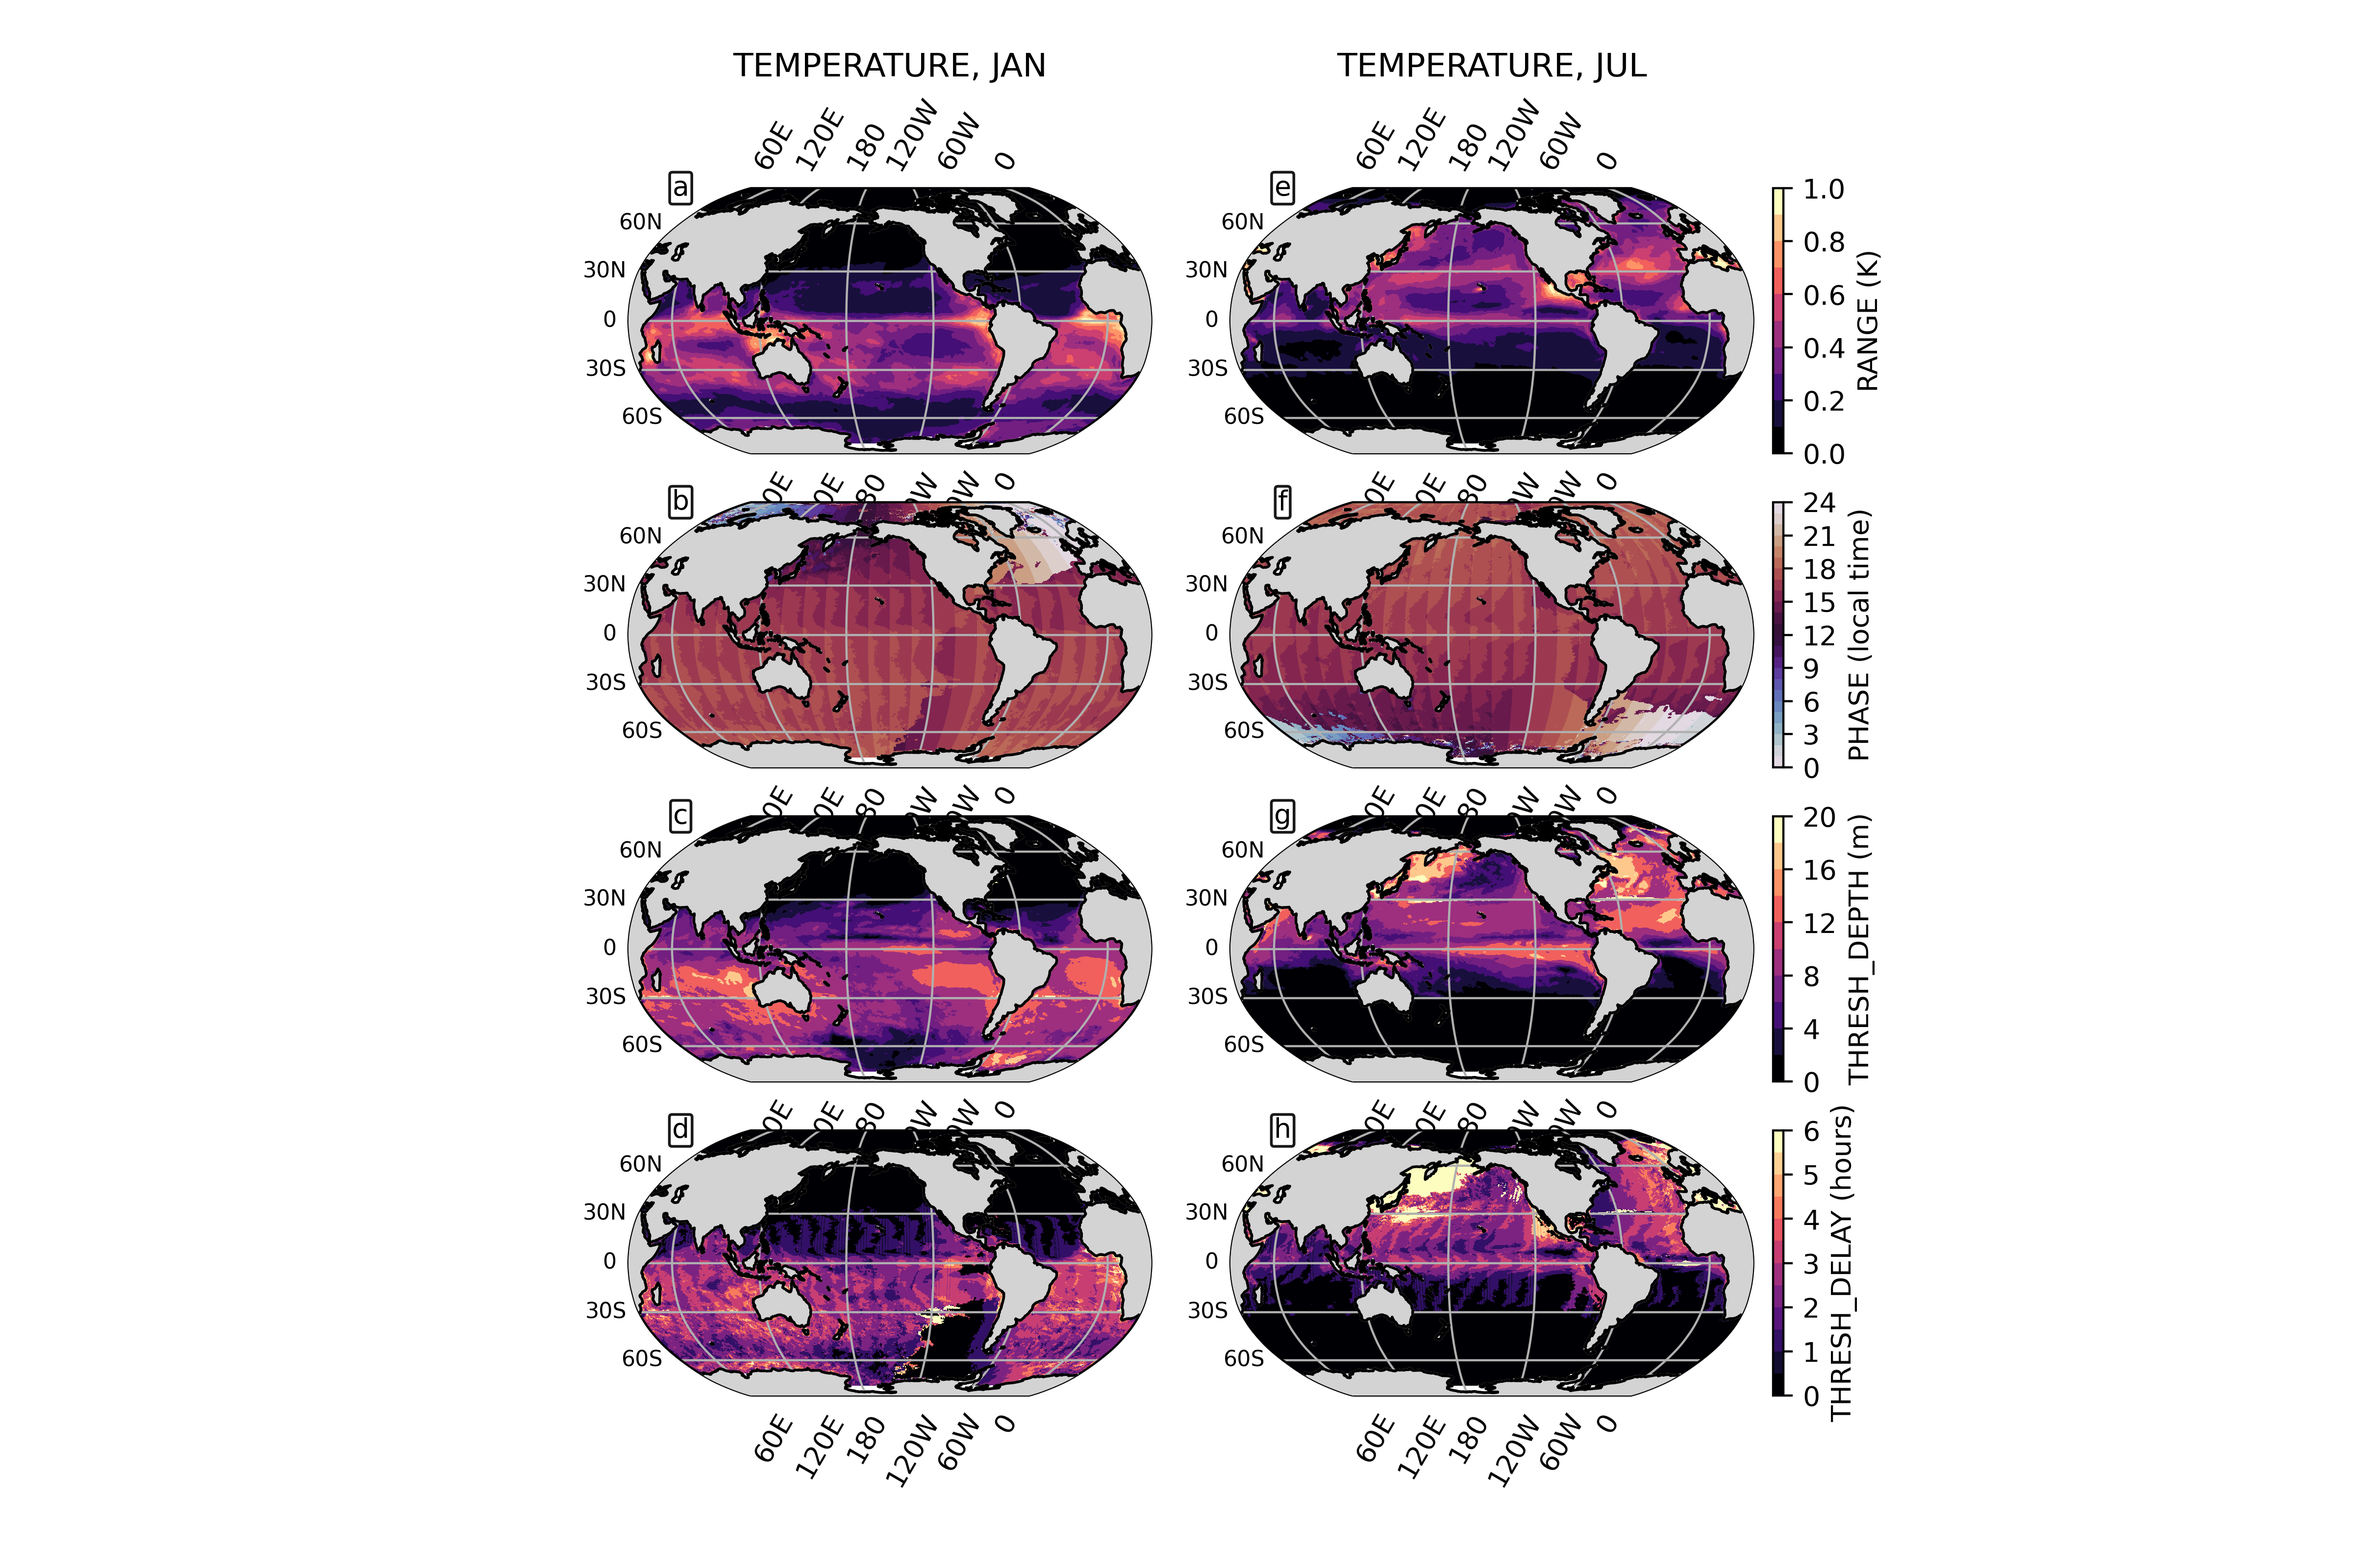
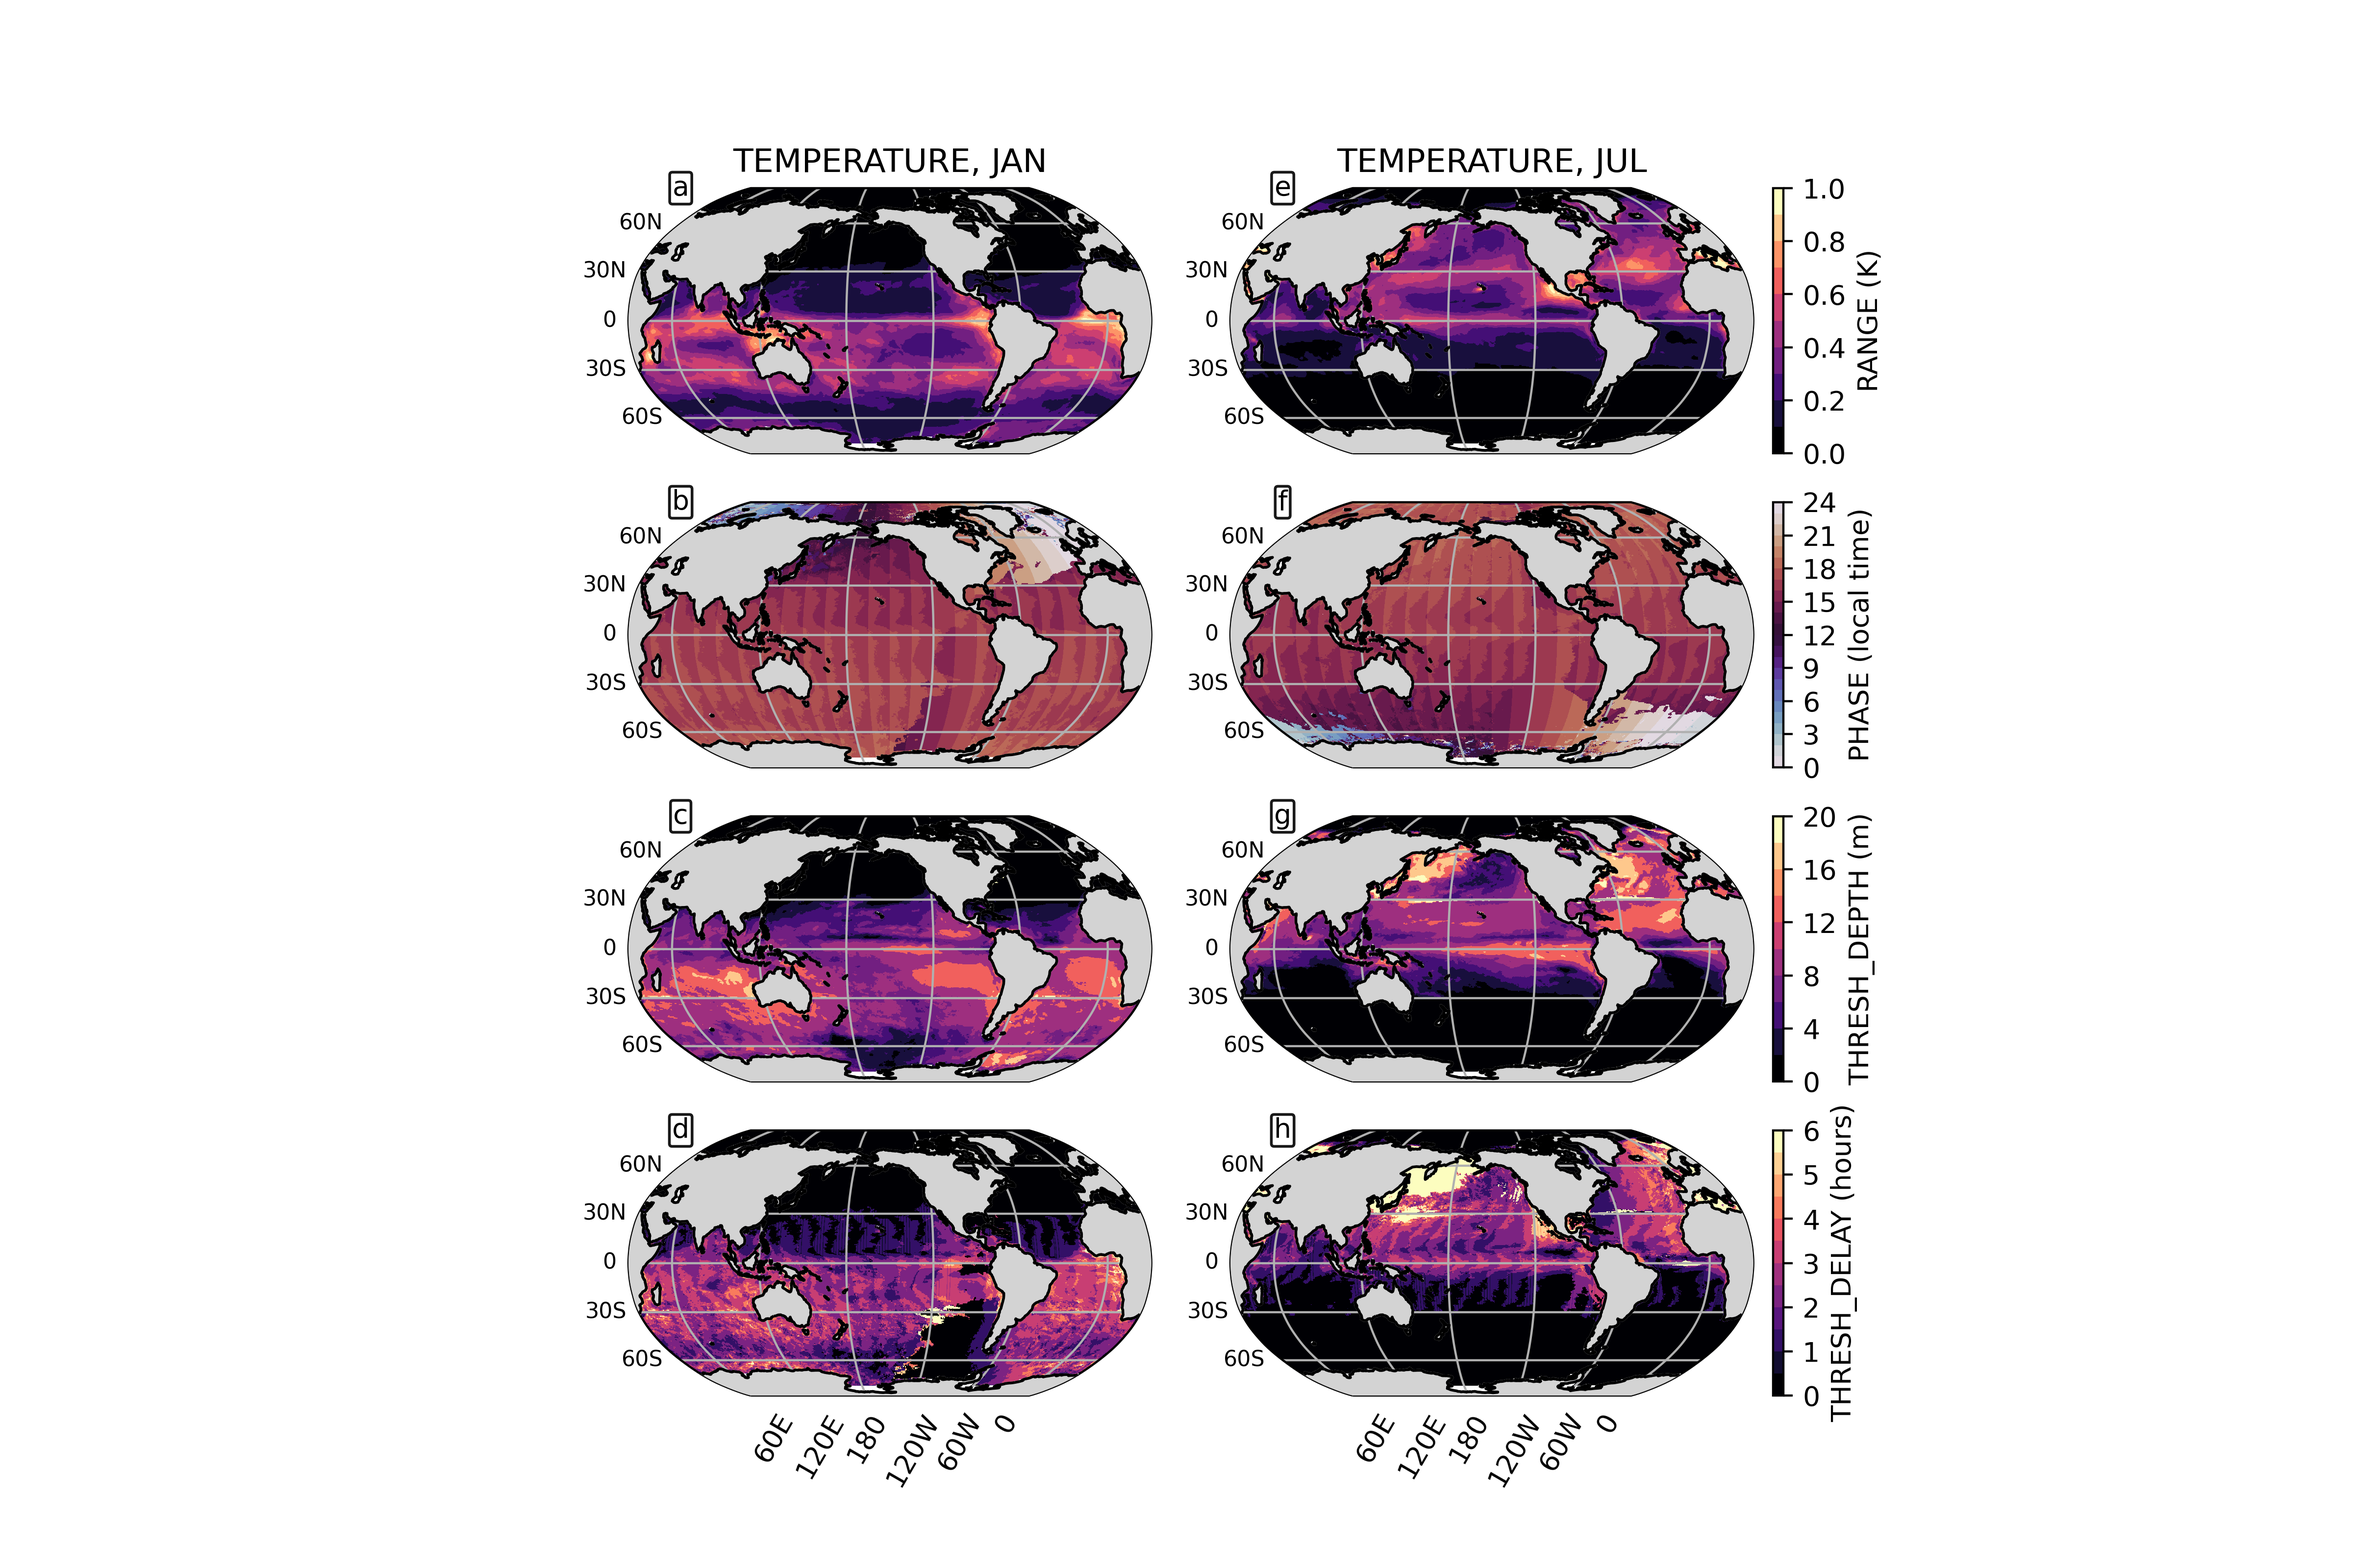
Tweaks 2col map.

diff --git a/diurnal_cycle/analysis/diurnal_cycle_2col_maps.py b/diurnal_cycle/analysis/diurnal_cycle_2col_maps.py
@@ -62,8 +62,10 @@ def main(plot_var, plot_month1, plot_month2):
     # Convert all velocities to cm s-1.
     if plot_var == 'CUR':
         for v in ['RANGE', 'RANGE_25']:
-            ds[v] = ds[v]*100.0
-            ds[v].attrs['units'] = 'cm s-1'
+            ds1[v] = ds1[v]*100.0
+            ds1[v].attrs['units'] = 'cm s-1'
+            ds2[v] = ds2[v]*100.0
+            ds2[v].attrs['units'] = 'cm s-1'
     
     #----------------------------------------------------------------------------
     # Plot figure.
@@ -117,12 +119,12 @@ def main(plot_var, plot_month1, plot_month2):
                           xlocs=np.arange(-300, 151, 60),
                           ylocs=np.arange(-90, 91, 30),
                           linewidths=0.3)
-        if i in [0,4]:
-            gl.top_labels = True
+        if i in [3, 7]:
+            gl.top_labels = False
             gl.bottom_labels = True
         else:
             gl.top_labels = False
-            gl.bottom_labels = True
+            gl.bottom_labels = False
         gl.left_labels = True
         gl.xformatter = LongitudeFormatter(zero_direction_label=False,
                                            degree_symbol='')
